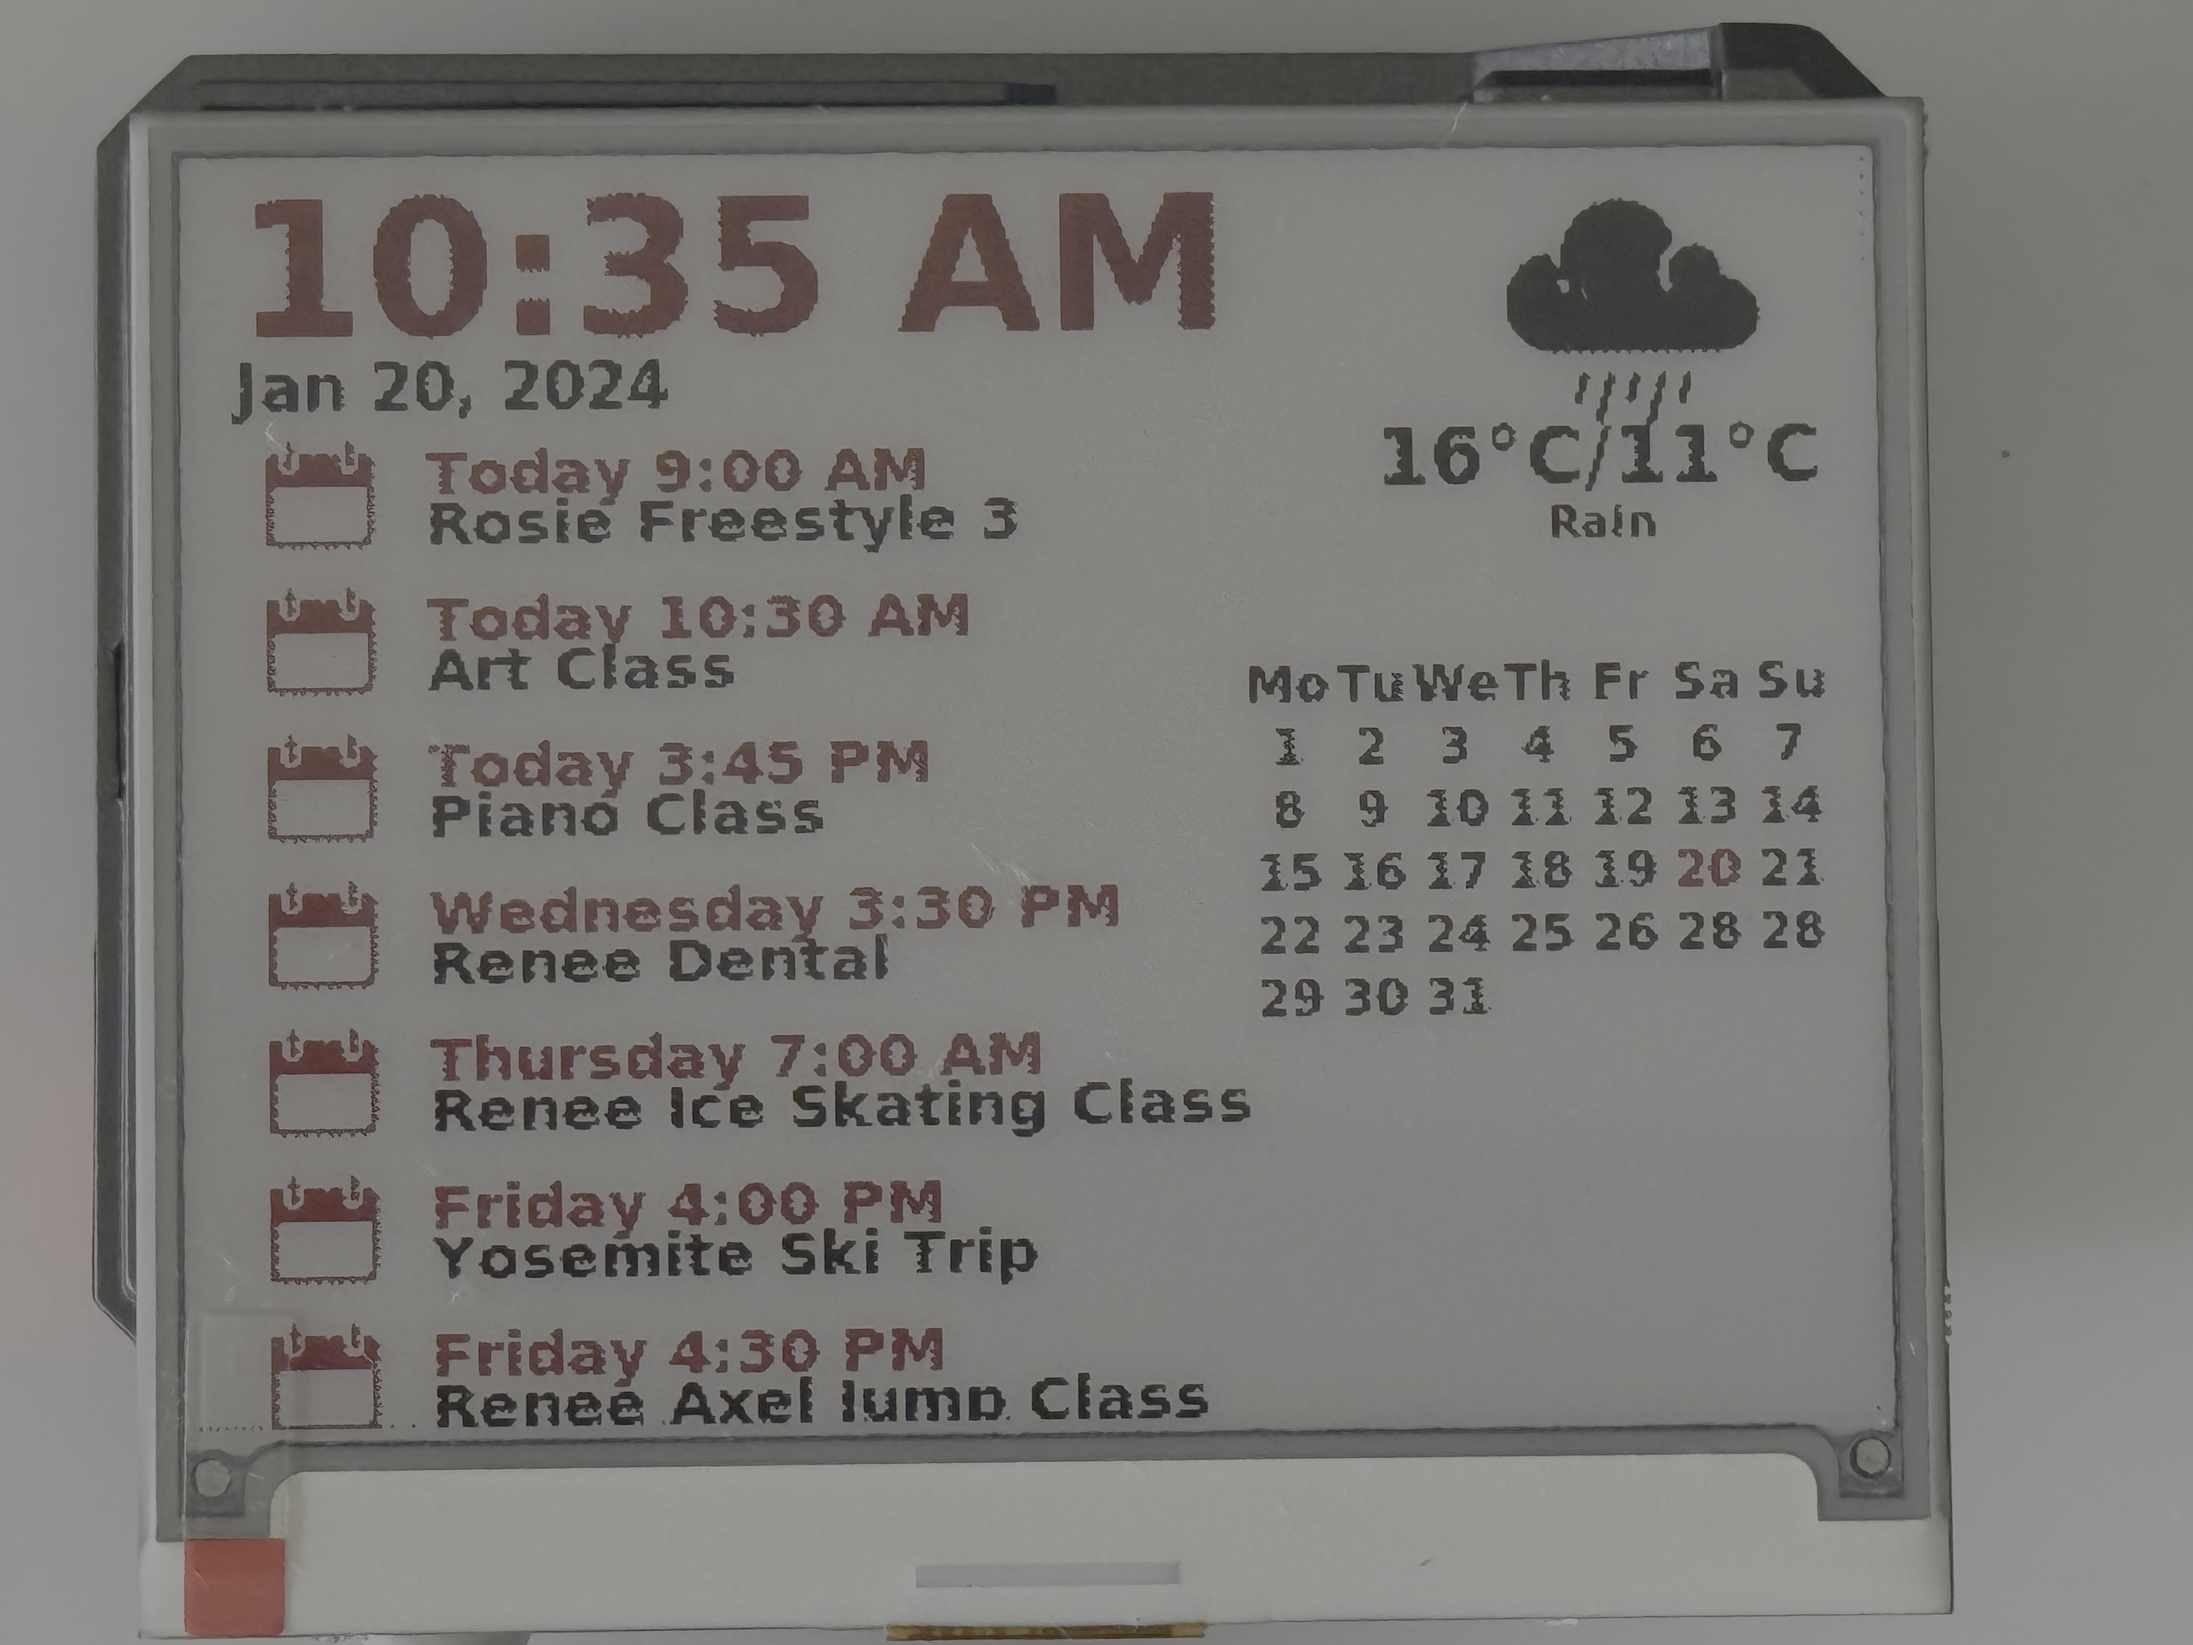
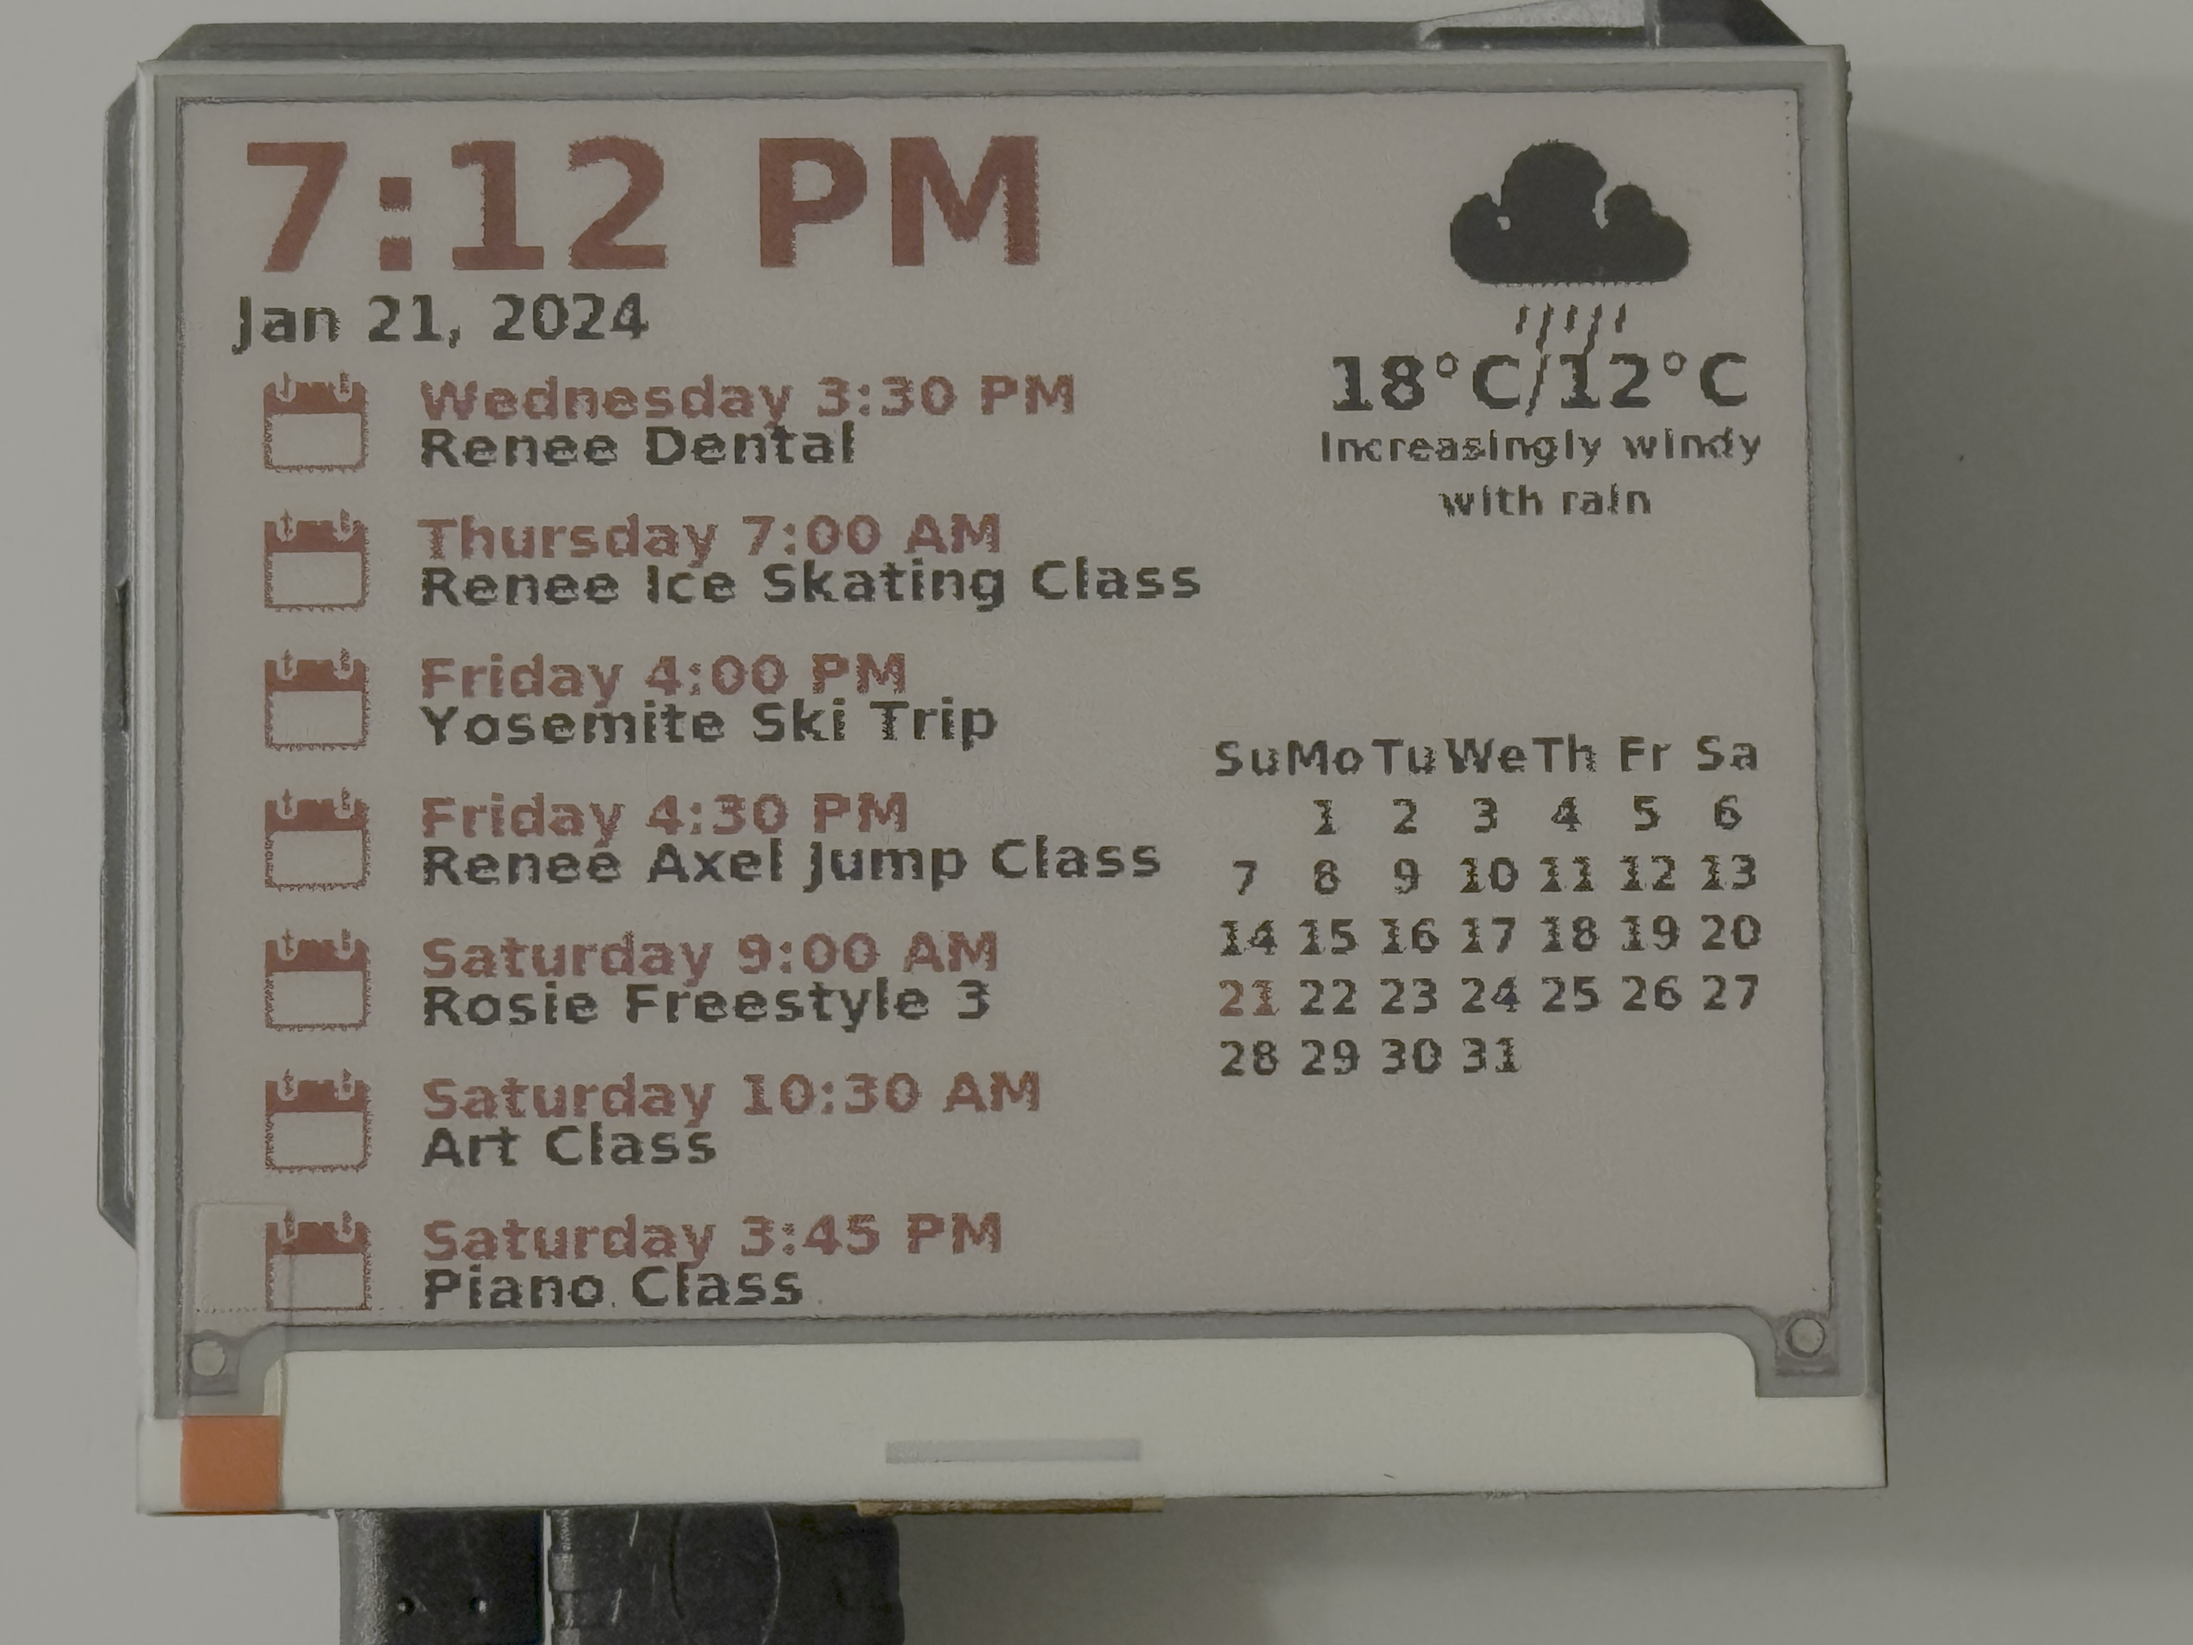
Add MONTH_CALENDAR_TOP_LEFT for position of monthly calendar

diff --git a/screen-calendar-month.py b/screen-calendar-month.py
@@ -6,6 +6,7 @@ import babel
 import logging
 from collections import deque
 import drawsvg as draw
+import os
 
 configure_logging()
 configure_locale()
@@ -32,7 +33,8 @@ def main():
     cal = calendar.monthcalendar(current_year, current_month)
 
     # Create a new SVG drawing
-    dwg = draw.Drawing(width=500, height=500, origin=(0,0),  id='month-cal', transform='translate(500, 240)')
+    top_left = os.getenv("MONTH_CALENDAR_TOP_LEFT", "(500, 240)")
+    dwg = draw.Drawing(width=500, height=500, origin=(0,0),  id='month-cal', transform=f'translate{top_left}')
 
     cell_width = 40
     cell_height = 30
